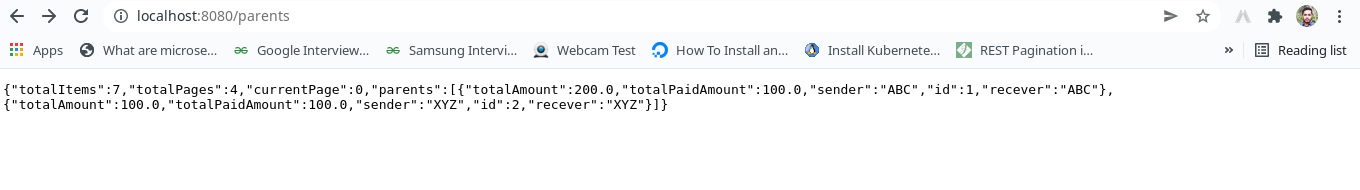
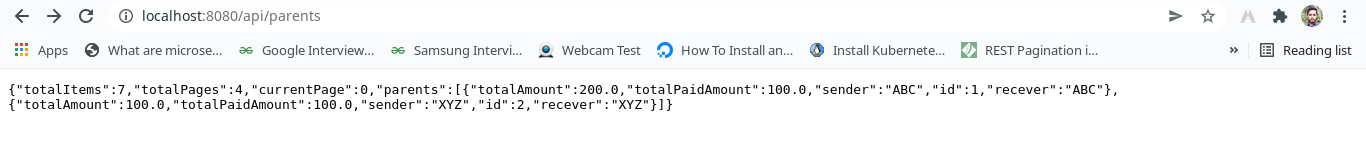
screenshort and url path updated

diff --git a/src/main/java/com/shoumitro/coding_test/MainRestController.java b/src/main/java/com/shoumitro/coding_test/MainRestController.java
@@ -16,6 +16,7 @@ import org.springframework.data.domain.Pageable;
 import org.springframework.http.HttpStatus;
 import org.springframework.http.ResponseEntity;
 import org.springframework.web.bind.annotation.GetMapping;
+import org.springframework.web.bind.annotation.RequestMapping;
 import org.springframework.web.bind.annotation.RequestParam;
 import org.springframework.web.bind.annotation.RestController;
 
@@ -24,6 +25,7 @@ import org.springframework.web.bind.annotation.RestController;
  * @author shoumitro
  */
 @RestController
+@RequestMapping("/api")
 public class MainRestController {
 
     @Autowired

diff --git a/README.md b/README.md
@@ -2,12 +2,12 @@
 
 
 # For rest api
-http://localhost:8080/parents/
+http://localhost:8080/api/parents
 
 # Dynamic page & size for parent
-http://localhost:8080/parents?page=0&size=2
+http://localhost:8080/api/parents?page=0&size=2
 
-http://localhost:8080/childs/
+http://localhost:8080/api/childs/
 
 
 # For table list view
